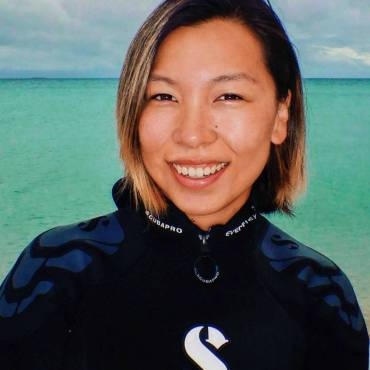
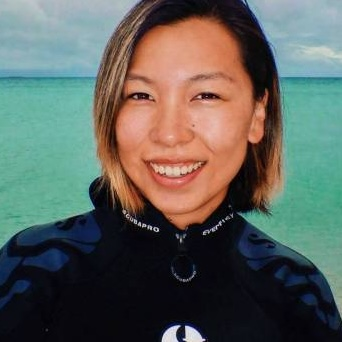
profile reduce

diff --git a/team.html b/team.html
@@ -23,45 +23,51 @@
 
   <h2 class="section">Team</h2>
 
-  <!-- One .member block per person. Photos: square crops (about 300 px) in img/team/ named as below. Delete the member-links div if not needed. -->
+  <!-- One .member block per person. Photo: any size, it is cropped to a circle in CSS; tune with --zoom and --pos on the <img>. Delete the member-icons div if there are no links. -->
   <div class="team-list">
 
     <div class="member">
-      <img src="img/team/cher-chow.jpg" alt="Cher Chow">
-      <div>
+      <div class="member-img-col">
+        <div class="member-photo"><img src="img/team/cher-chow.jpg" alt="Cher Chow" style="--zoom:1.1; --pos:50% 30%"></div>
+      <div class="member-icons">
+        <a href="https://cherchow.com" title="Website" aria-label="Website"><svg viewBox="0 0 24 24" fill="none" stroke="currentColor" stroke-width="1.8"><circle cx="12" cy="12" r="10"/><path d="M2 12h20M12 2a15 15 0 0 1 0 20M12 2a15 15 0 0 0 0 20"/></svg></a>
+        <a href="https://bit.ly/3QjDvJ9" title="Scholar" aria-label="Scholar"><svg viewBox="0 0 24 24" fill="none" stroke="currentColor" stroke-width="1.8"><path d="M22 10L12 4 2 10l10 6 10-6z"/><path d="M6 12.5V17c0 1.5 2.7 3 6 3s6-1.5 6-3v-4.5"/></svg></a>
+      </div>
+      </div>
+      <div class="member-text">
         <p class="name">Cher Chow</p>
         <p class="role">Senior Research Associate, Lancaster University</p>
-        <p class="bio">Cher is a marine ecologist interested in how animals participate and are affected by ecosystem functioning and how functioning links with biodiversity. She is currently a Senior Research Associate working with James Robinson. Before joining LEC and the REEFS group, she completed her PhD at the University of St Andrews on biodiversity-productivity relationships on coral reefs. Cher has worked primarily on reef fish and coral assemblages in both tropical and subtropical Indo-Pacific reefs as part of her PhD and previous roles as a research assistant. In addition to coral reef ecology, she also collaborates on macroecological projects to understand patterns of global biodiversity change. Her current work with the Oceanic Subsidies project funded by the Royal Society focuses on understanding the oceanographic processes that drive pelagic energetic inputs to coral reef fish productivity. Cher is also a part of the Leadership Council for the BioTIME database project.</p>
-        <div class="member-links">
-          <a href="https://cherchow.com">Website</a>
-          <a href="https://bit.ly/3QjDvJ9">Scholar</a>
-        </div>
+        <p class="bio">Cher is a marine ecologist interested in how animals participate and are affected by ecosystem functioning and how functioning links with biodiversity, particularly throught the BioTIME database. She is currently a Senior Research Associate in LEC and funded by the Royal Society. Her research focuses on understanding the oceanographic processes that drive pelagic energetic inputs to coral reef fish productivity.</p>
       </div>
     </div>
 
     <div class="member">
-      <img src="img/team/khatija-alliji.jpg" alt="Khatija Alliji">
-      <div>
+      <div class="member-img-col">
+        <div class="member-photo"><img src="img/team/khatija-alliji.jpg" alt="Khatija Alliji" style="--zoom:1.1; --pos:50% 30%"></div>
+      <div class="member-icons">
+        <a href="https://bit.ly/43Nm6vN" title="Scholar" aria-label="Scholar"><svg viewBox="0 0 24 24" fill="none" stroke="currentColor" stroke-width="1.8"><path d="M22 10L12 4 2 10l10 6 10-6z"/><path d="M6 12.5V17c0 1.5 2.7 3 6 3s6-1.5 6-3v-4.5"/></svg></a>
+        <a href="https://www.researchgate.net/profile/Khatija-Alliji" title="ResearchGate" aria-label="ResearchGate"><span class="rg">RG</span></a>
+        <a href="https://sa.linkedin.com/in/khatija-alliji-68173394" title="LinkedIn" aria-label="LinkedIn"><svg viewBox="0 0 24 24" fill="currentColor"><path d="M20.447 20.452h-3.554v-5.569c0-1.328-.027-3.037-1.852-3.037-1.853 0-2.136 1.445-2.136 2.939v5.667H9.351V9h3.414v1.561h.046c.477-.9 1.637-1.85 3.37-1.85 3.601 0 4.267 2.37 4.267 5.455v6.286zM5.337 7.433a2.062 2.062 0 01-2.063-2.065 2.064 2.064 0 112.063 2.065zm1.782 13.019H3.555V9h3.564v11.452zM22.225 0H1.771C.792 0 0 .774 0 1.729v20.542C0 23.227.792 24 1.771 24h20.451C23.2 24 24 23.227 24 22.271V1.729C24 .774 23.2 0 22.222 0h.003z"/></svg></a>
+      </div>
+      </div>
+      <div class="member-text">
         <p class="name">Khatija Alliji</p>
         <p class="role">PhD Student, Lancaster University</p>
-        <p class="bio">Khatija is a Royal Society-funded PhD student at Lancaster University supervised by Dr James Robinson, Prof Nick Graham, Dr Casey Benkwitt and Prof Simon Brandl (University of Texas). After completing a degree in Marine Biology at the University of Portsmouth, Khatija pursued a MSc in Ecosystem-based Management of Marine Systems at the University of St Andrews. Upon completing her Masters, Khatija joined the Centre for Environment, Fisheries and Aquaculture Science (Cefas) where she worked on various projects, including the coral IUCN red listing effort, fisheries conservation and ecosystem modelling. Khatija then worked at a few consultancies, where she was primarily assessing the impacts of human activity on the environment. Most recently, Khatija has been working at KAUST at their consultancy where she was mainly focused on baseline and monitoring surveys for various projects in Saudi Arabia. Khatija&rsquo;s PhD will explore the connection between pelagic planktivorous fish and coral reefs and what are the drivers of this relationship and how oceanographic processes might influence it.</p>
-        <div class="member-links">
-          <a href="https://bit.ly/43Nm6vN">Scholar</a>
-          <a href="https://www.researchgate.net/profile/Khatija-Alliji">ResearchGate</a>
-          <a href="https://sa.linkedin.com/in/khatija-alliji-68173394">LinkedIn</a>
-        </div>
+        <p class="bio">Khatija is a Royal Society-funded PhD student at Lancaster University supervised by Dr James Robinson, Prof Nick Graham, Dr Casey Benkwitt and Prof Simon Brandl (University of Texas). Khatija&rsquo;s PhD explores the influence of oceanographic processes on ocean-reef connectivity, focusing on how pelagic subsidies drive diets and abundance in planktivorous fishes.</p>
       </div>
     </div>
 
     <div class="member">
-      <img src="img/team/beth-woodhead.jpg" alt="Beth Woodhead">
-      <div>
+      <div class="member-img-col">
+        <div class="member-photo"><img src="img/team/beth-woodhead.jpg" alt="Beth Woodhead" style="--zoom:1.1; --pos:50% 30%"></div>
+      <div class="member-icons">
+        <a href="https://www.linkedin.com/in/beth-woodhead-1b932b252" title="LinkedIn" aria-label="LinkedIn"><svg viewBox="0 0 24 24" fill="currentColor"><path d="M20.447 20.452h-3.554v-5.569c0-1.328-.027-3.037-1.852-3.037-1.853 0-2.136 1.445-2.136 2.939v5.667H9.351V9h3.414v1.561h.046c.477-.9 1.637-1.85 3.37-1.85 3.601 0 4.267 2.37 4.267 5.455v6.286zM5.337 7.433a2.062 2.062 0 01-2.063-2.065 2.064 2.064 0 112.063 2.065zm1.782 13.019H3.555V9h3.564v11.452zM22.225 0H1.771C.792 0 0 .774 0 1.729v20.542C0 23.227.792 24 1.771 24h20.451C23.2 24 24 23.227 24 22.271V1.729C24 .774 23.2 0 22.222 0h.003z"/></svg></a>
+      </div>
+      </div>
+      <div class="member-text">
         <p class="name">Beth Woodhead</p>
         <p class="role">PhD Student, Lancaster University</p>
-        <p class="bio">Beth is an EPSRC-funded PhD and Envision affiliated student at Lancaster Environment Centre supervised by Dr James Robinson, Prof Christina Hicks, Dr Gareth Williams (Bangor University) and Dr Ife Okafor-Yarwood (University of St Andrews). Following a BSc in Biology, Beth completed an MRes in Biodiversity and Conservation at the University of Leeds before taking on a research assistant role processing data for a coral reef lab. Beth&rsquo;s previous research has assessed the ecological effectiveness of marine protected areas, answering questions relating to ecological connectivity and functional diversity. Her current research focuses on understanding the social, environmental and ecological drivers of small pelagic fisheries in West Africa.</p>
-        <div class="member-links">
-          <a href="https://www.linkedin.com/in/beth-woodhead-1b932b252">LinkedIn</a>
-        </div>
+        <p class="bio">Beth is an EPSRC-funded PhD student at Lancaster Environment Centre supervised by Dr James Robinson, Prof Christina Hicks, Dr Gareth Williams (Bangor University) and Dr Ife Okafor-Yarwood (University of St Andrews). Beth&rsquo;s PhD research focuses on understanding the social, environmental and ecological drivers of small pelagic fisheries in West Africa.</p>
       </div>
     </div>
 

diff --git a/styles.css b/styles.css
@@ -366,3 +366,88 @@ a.more-link:hover { text-decoration: underline; }
   padding: 2px 6px;
   border-radius: 4px;
 }
+
+/* team page */
+.team-list { display: flex; flex-direction: column; gap: 28px; }
+
+.member {
+  display: flex;
+  gap: 18px;
+  align-items: flex-start;
+}
+
+.member-img-col {
+  display: flex;
+  flex-direction: column;
+  align-items: center;
+  gap: 10px;
+  flex-shrink: 0;
+  width: 80px;
+}
+
+/* circle crop. Tune per person with style="--zoom:1.6; --pos:50% 25%" on the <img>:
+   --zoom = how far to zoom in, --pos = the point to centre on (x% y%, 0% 0% = top-left) */
+.member-photo {
+  width: 80px;
+  height: 80px;
+  border-radius: 50%;
+  overflow: hidden;
+  background: #eee;
+}
+
+.member-photo img {
+  display: block;
+  width: 100%;
+  height: 100%;
+  object-fit: cover;
+  object-position: var(--pos, 50% 30%);
+  transform: scale(var(--zoom, 1.4));
+  transform-origin: var(--pos, 50% 30%);
+}
+
+.member-icons {
+  display: flex;
+  flex-wrap: wrap;
+  justify-content: center;
+  gap: 9px;
+}
+
+.member-icons a {
+  display: inline-flex;
+  align-items: center;
+  justify-content: center;
+  color: var(--text-muted);
+  text-decoration: none;
+}
+
+.member-icons a:hover { color: var(--accent); }
+
+.member-icons svg { width: 15px; height: 15px; }
+
+.member-icons .rg {
+  font-size: 10px;
+  font-weight: 700;
+  letter-spacing: -0.02em;
+  line-height: 15px;
+}
+
+.member-text { flex: 1; min-width: 0; }
+
+.member .name {
+  font-size: 15px;
+  font-weight: 600;
+  margin: 0;
+  line-height: 1.3;
+}
+
+.member .role {
+  font-size: 13px;
+  color: var(--text-secondary);
+  margin: 2px 0 8px;
+}
+
+.member .bio {
+  font-size: 14px;
+  line-height: 1.6;
+  margin: 0;
+}
